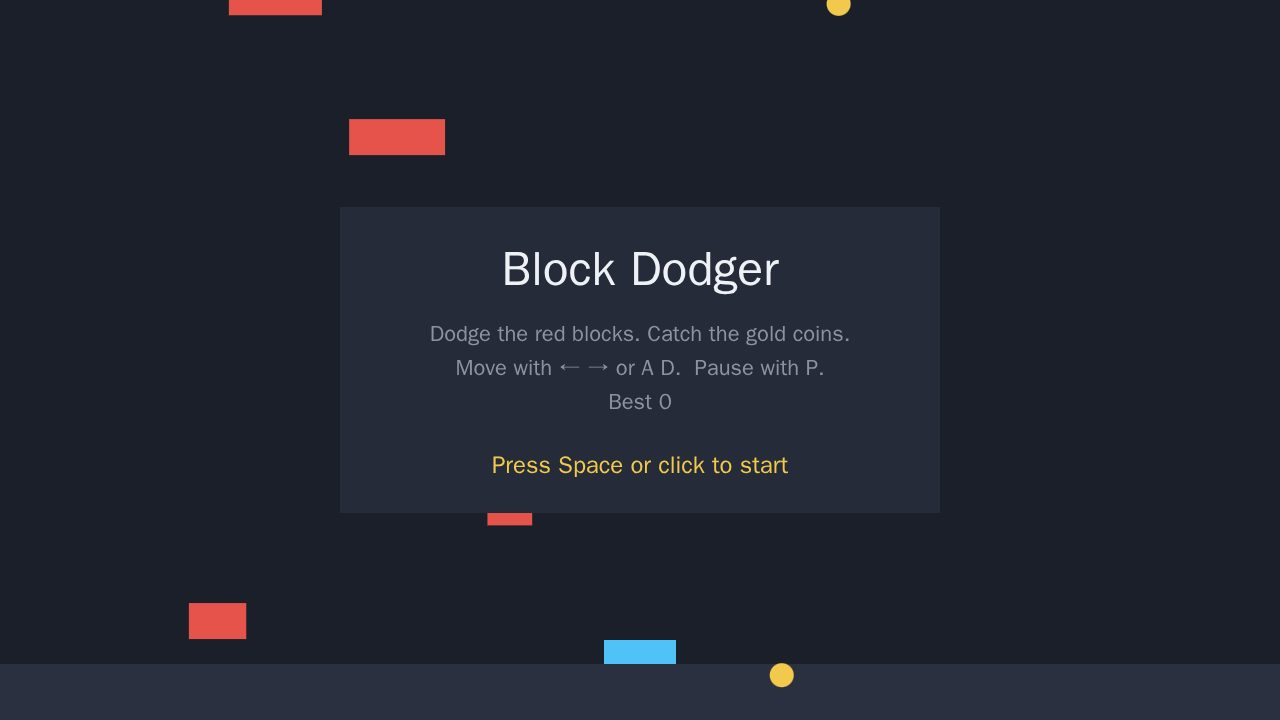
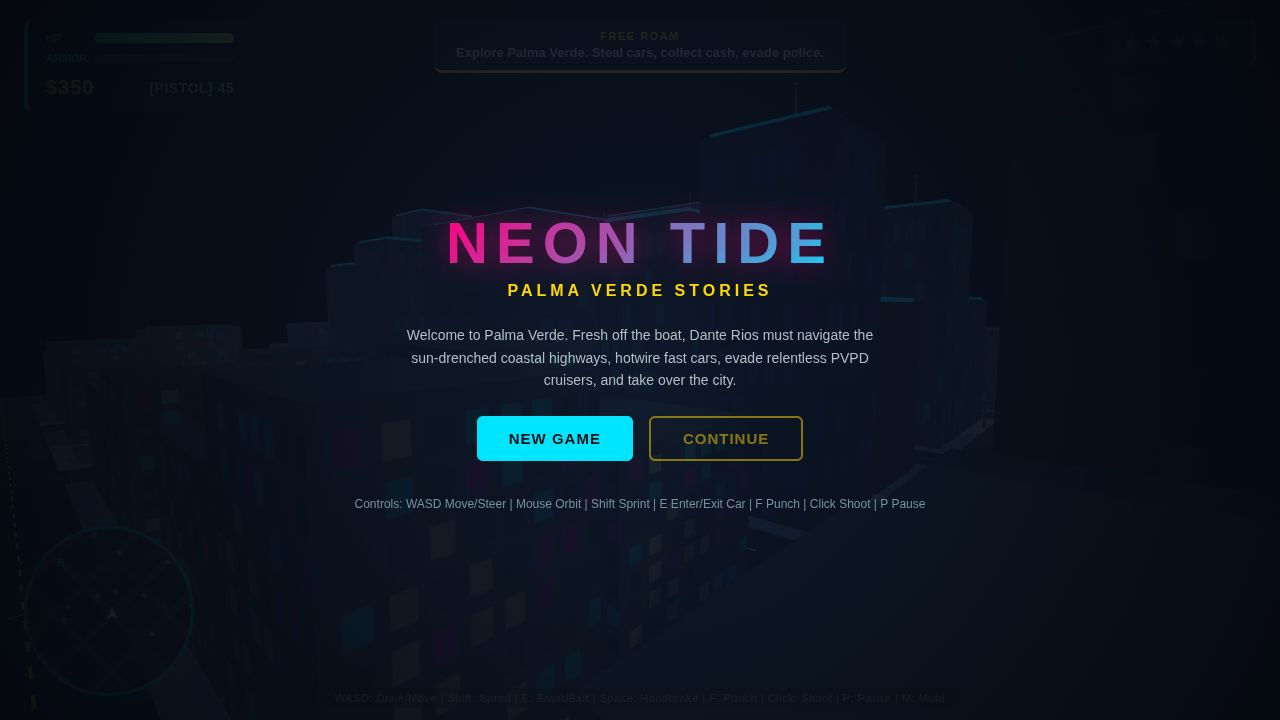
docs(screenshots): add in-game screenshots, README, and gitignore

diff --git a/README.md b/README.md
@@ -1,0 +1,123 @@
+# Neon Tide - Palma Verde Stories
+
+[![make.fun competition](https://make.fun/badge/gta6-01.svg)](https://make.fun/bounty/gta6-01)
+[![make.fun rank](https://make.fun/badge/gta6-01/xiaogui917/makefun-gta6-01/rank.svg)](https://make.fun/bounty/gta6-01)
+[![make.fun reward](https://make.fun/badge/gta6-01/xiaogui917/makefun-gta6-01/reward.svg)](https://make.fun/bounty/gta6-01)
+
+**Neon Tide** is an open-world 3D crime action game built for the [make.fun gta6-01](https://make.fun/bounty/gta6-01) competition.
+
+Set in the sun-soaked, synth-lit coastal metropolis of **Palma Verde**, players take on the role of Dante Rios, navigating high-stakes crime, high-speed vehicle getaways, and intense tactical police pursuits across diverse city districts.
+
+---
+
+## Features
+
+- **Living 3D City (Palma Verde)**:
+  - Multi-lane road grid, sidewalks with curbs, and crosswalks.
+  - Distinct architectural districts: Downtown highrises with lit neon windows and rooftop spires, Art-Deco pastel beachfront hotels, Port Lorenzo industrial warehouses with cargo containers, and Palma Heights residential plazas.
+  - Coastal highway along Ocean Boulevard with sandy beaches, palm trees, and animated ocean water.
+  - Collectible pickups: Health medkits (+40 HP), Ammo crates (+30 rounds), and Cash briefcases (+$250).
+
+- **Vehicles & Arcade Driving Physics**:
+  - Stealable parked cars and active NPC traffic cruising city road corridors.
+  - Diverse vehicle fleet: Vipera GT (sports coupe), Stallion 400 (4-door sedan), Palma PD Interceptor (police cruiser), Sun Cab (taxi), and Hauler Cargo (van).
+  - Acceleration, braking, reverse gear, handbrake drift sliding, wheel rotation, steering wheel pivot, and headlights.
+  - Vehicle damage, collision impacts, and deformation.
+
+- **Pedestrian Life & Pedestrian AI**:
+  - Citizens strolling along sidewalks with randomized appearances.
+  - Reactive AI: pedestrians panic and run away with flailing limbs when gunshots are fired or speeding cars crash nearby.
+  - Downed pedestrians drop cash that can be scavenged.
+
+- **5-Star Wanted System & Police Pursuit AI**:
+  - Dynamic crime detection: vehicle theft (+1★), assault/hit-and-run (+2★), firearm discharge (+1★), ramming police vehicles (+2★), and attacking officers (+3★).
+  - Palma Verde PD dispatches high-speed pursuit cruisers with alternating red/blue light bars and wailing sirens.
+  - Evasion & search mechanic: break line of sight and evade cruisers for 14 seconds to drop wanted stars back to 0.
+  - Busted / Wasted system: surrounded or downed players respawn outside Central Hospital with bail/medical fines.
+
+- **Story Campaign & Missions**:
+  - **Mission 1: First Wheels**: Locate and hotwire the Vipera GT near Club Neon downtown and deliver it to Lorenzo's Harbor Garage ($500).
+  - **Mission 2: Bay Courier**: High-speed timed delivery across 3 coastal checkpoints along Ocean Boulevard ($1,200).
+  - **Mission 3: Heat Run**: Survive a mandatory 3-Star PVPD pursuit, lose the tail, and deliver contraband safely to the safehouse ($3,000).
+  - 3D neon waypoint beacons and minimap GPS markers.
+
+- **Combat System**:
+  - Unarmed melee punch with forward impact detection (`F`).
+  - Pistol shooting with bullet tracers, raycast hit detection, and sound effects (Left Click).
+  - Hostile syndicate gang enforcers guarding Port Lorenzo who return fire when provoked.
+
+- **Cyber-Retro HUD & Radar Minimap**:
+  - Player health bar, armor bar, cash counter, weapon ammo status.
+  - Dynamic flashing 5-star wanted display.
+  - Digital speedometer with MPH and RPM throttle indicator when driving.
+  - Real-time rotating 2D Canvas radar minimap with roads, ocean boundary, player heading arrow, police blips, and mission waypoints.
+  - Start screen with lore prologue, pause menu, game over screen, and mission success banners.
+
+- **100% Procedural Web Audio**:
+  - Dynamic engine pitch modulation based on RPM and speed.
+  - Oscillating police siren wails.
+  - Synthesized gunshot cracks and punch impacts.
+  - Looping ambient synthwave soundtrack generated via Web Audio API oscillators and filters.
+  - Audio mute toggle (`M`).
+
+- **Save / Load Persistence**:
+  - Saves progress, cash, health, ammo, and completed mission state to `localStorage`.
+  - Auto-saves upon mission completion; manual save available in the pause menu.
+
+---
+
+## Controls
+
+| Action | Key / Input |
+|---|---|
+| **Move / Steer** | `W`, `A`, `S`, `D` / Arrow Keys |
+| **Look / Orbit Camera** | Mouse Movement |
+| **Sprint** | `Shift` (Hold) |
+| **Enter / Exit Vehicle** | `E` |
+| **Handbrake / Drift** | `Space` |
+| **Melee Punch** | `F` |
+| **Shoot Pistol** | `Left Mouse Click` |
+| **Pause / Menu** | `P` / `Escape` |
+| **Mute / Unmute Audio** | `M` |
+
+---
+
+## Running Locally
+
+Requirements: Node.js 22+ (no build step, pure static ES modules).
+
+```bash
+# Start local static server
+node serve.ts --port 8080
+```
+
+Open your browser and navigate to:
+```
+http://localhost:8080
+```
+
+---
+
+## Deterministic Screenshots Mode
+
+The game includes URL-driven deterministic modes for testing and inspection:
+- `http://localhost:8080/?shot=start`: Title screen overlooking Palma Verde skyline.
+- `http://localhost:8080/?shot=drive`: High-speed cruise in the Vipera GT along Ocean Blvd.
+- `http://localhost:8080/?shot=chase`: 3-Star tactical pursuit with PVPD cruisers.
+- `http://localhost:8080/?shot=mission`: Mission 2 "Bay Courier" checkpoint race.
+
+---
+
+## Packaging
+
+```bash
+mkdir -p out && MAKEFUN_OUTPUT_DIR=out node main.ts
+```
+
+Outputs the validated `game/`, `screenshots/`, and `dossier.json` to the target directory.
+
+---
+
+## License
+
+This project is licensed under the [MIT License](LICENSE).
